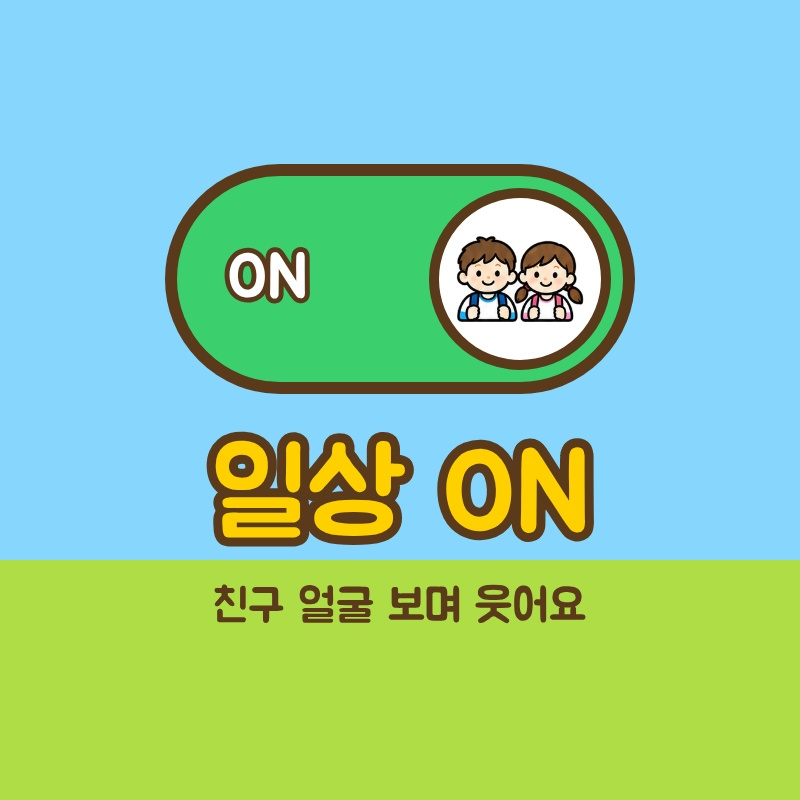
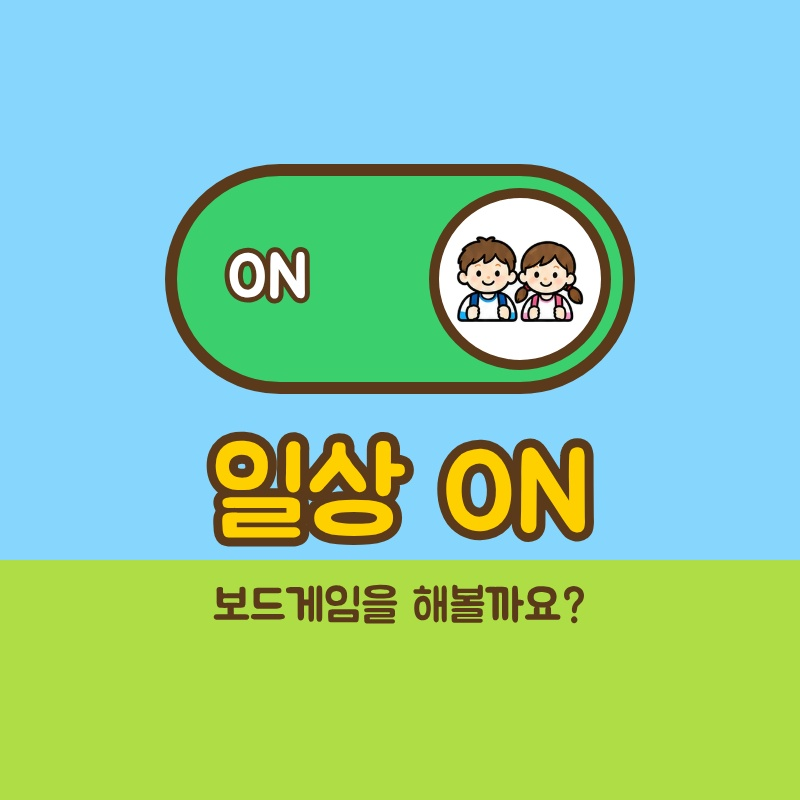
케이스: 일상 ON 문구 변경, 학년·반 적는 칸 추가
Claude-Session: https://claude.ai/code/session_01A6j3E2GbQgfSGdkSmcN9hb

Changed region(s): [[0.25, 0.7188, 0.75, 0.7812]]

diff --git a/dobble/case/digital.html b/dobble/case/digital.html
@@ -29,11 +29,20 @@ body { margin: 0; background: #fff; }
 .cards img:nth-child(2) { left: 125px; top: 10px; z-index: 2; }
 .cards img:nth-child(3) { left: 230px; transform: rotate(14deg); }
 .play .t2 { margin-top: 30px; }
+.head { display: flex; align-items: center; gap: 18px; margin-bottom: 40px; }
+.head img { width: 96px; height: 96px; object-fit: contain; }
+.head span { font-size: 78px; color: #ffd000; -webkit-text-stroke: 14px #5a3a1a; paint-order: stroke fill; }
+.fill { width: 560px; height: 170px; background: #fff; border: 10px solid #5a3a1a; border-radius: 36px; box-sizing: border-box;
+  display: flex; align-items: flex-end; padding: 0 42px 34px; gap: 24px; margin-top: 26px; }
+.fill .line { flex: 1; border-bottom: 6px dashed #c9b27a; height: 1px; }
+.fill .w { font-size: 84px; line-height: 1; color: #5a3a1a; }
 </style></head><body>
 <div class="sq off" id="d1_digital_off"><div class="toggle"><div class="knob"><div class="phone"><span>Zz</span></div></div><div class="lbl">OFF</div></div>
 <div class="t2">디지털 OFF</div><div class="t1">스마트폰은 잠깐 쉬어요</div></div>
 <div class="sq on" id="d2_daily_on"><div class="toggle"><div class="lbl">ON</div><div class="knob"><img src="../art/24.png"></div></div>
-<div class="t2">일상 ON</div><div class="t1">친구 얼굴 보며 웃어요</div></div>
-<div class="sq play" id="d3_play"><div class="cards"><img src="../photocard/front_05.png"><img src="../photocard/back.png"><img src="../photocard/front_09.png"></div>
-<div class="t2">대블 한 판!</div><div class="t1">함께 놀면 더 재밌어요</div></div>
+<div class="t2">일상 ON</div><div class="t1">보드게임을 해볼까요?</div></div>
+<div class="sq play" id="d3_class"><div class="head"><img src="../art/03.png"><span>우리 반 대블</span></div>
+<div class="fill"><div class="line"></div><div class="w">학년</div></div>
+<div class="fill"><div class="line"></div><div class="w">반</div></div>
+</div>
 </body></html>
